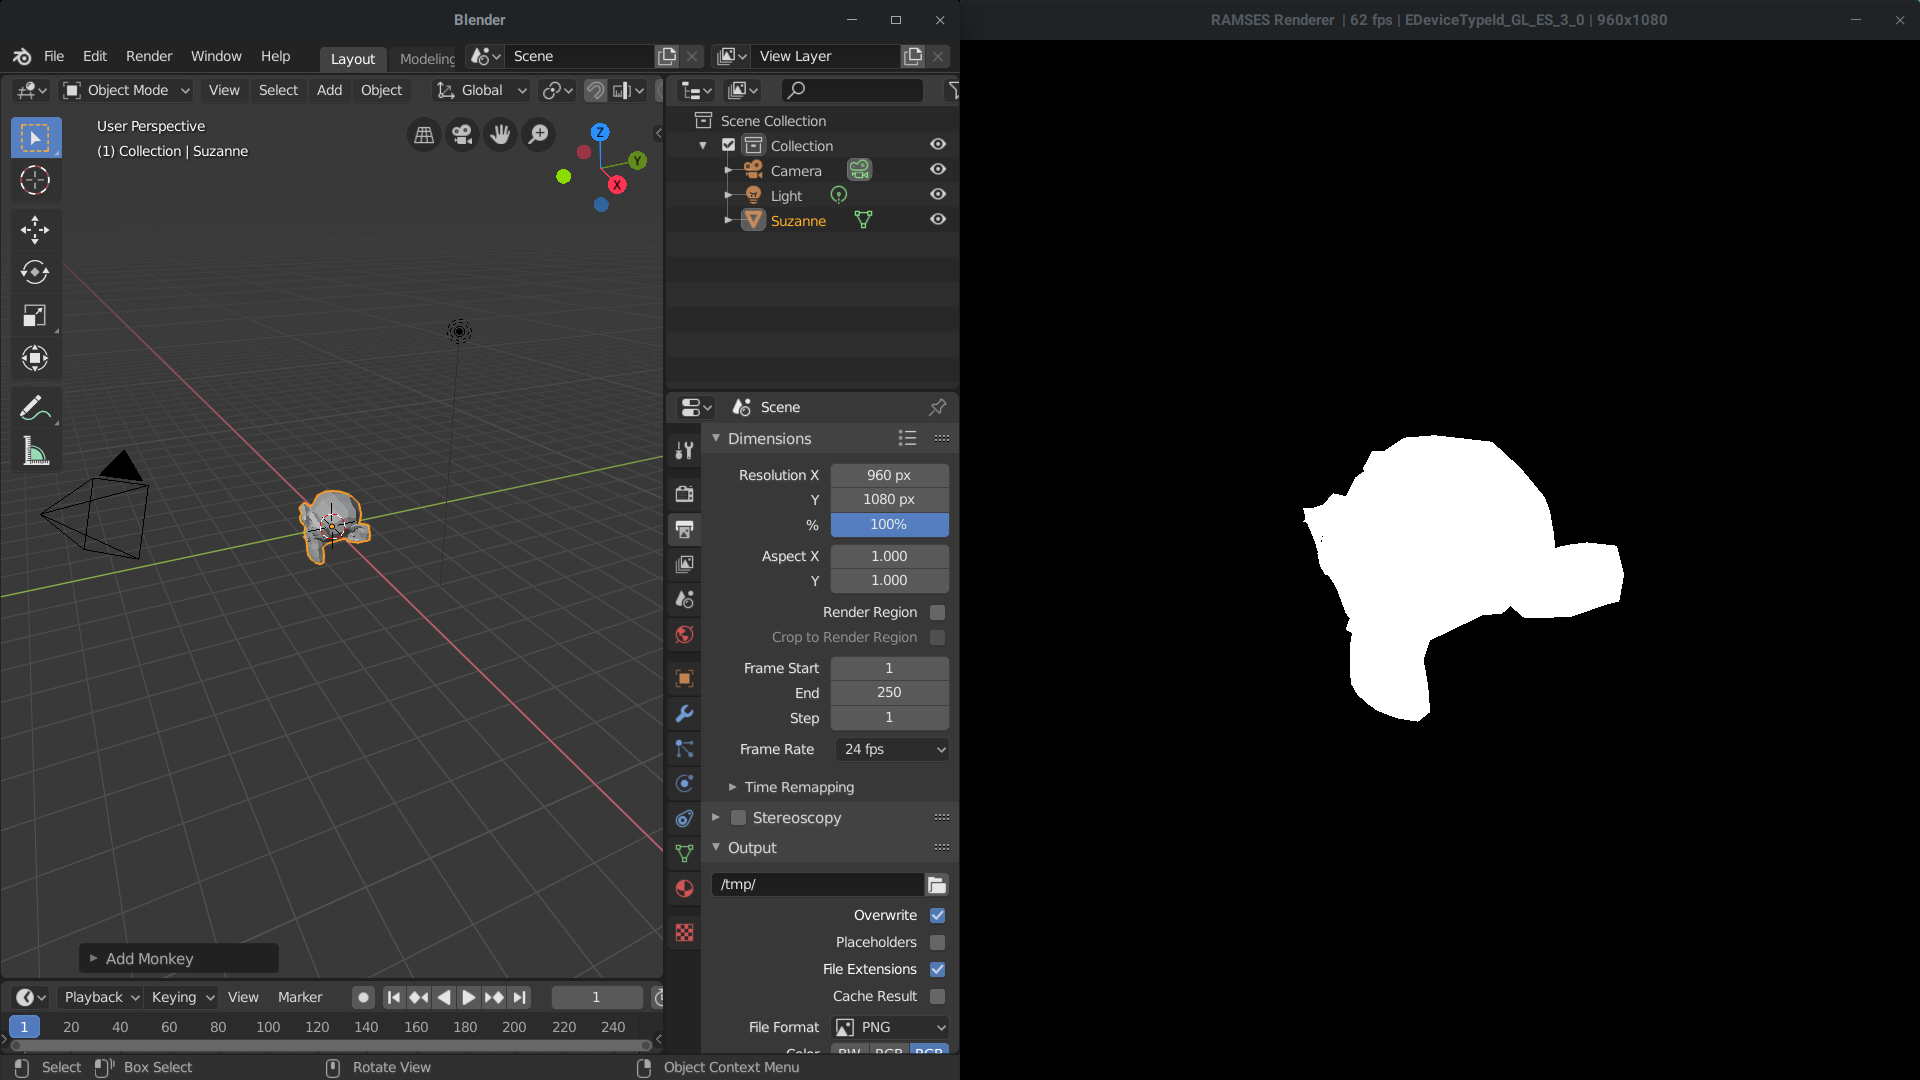
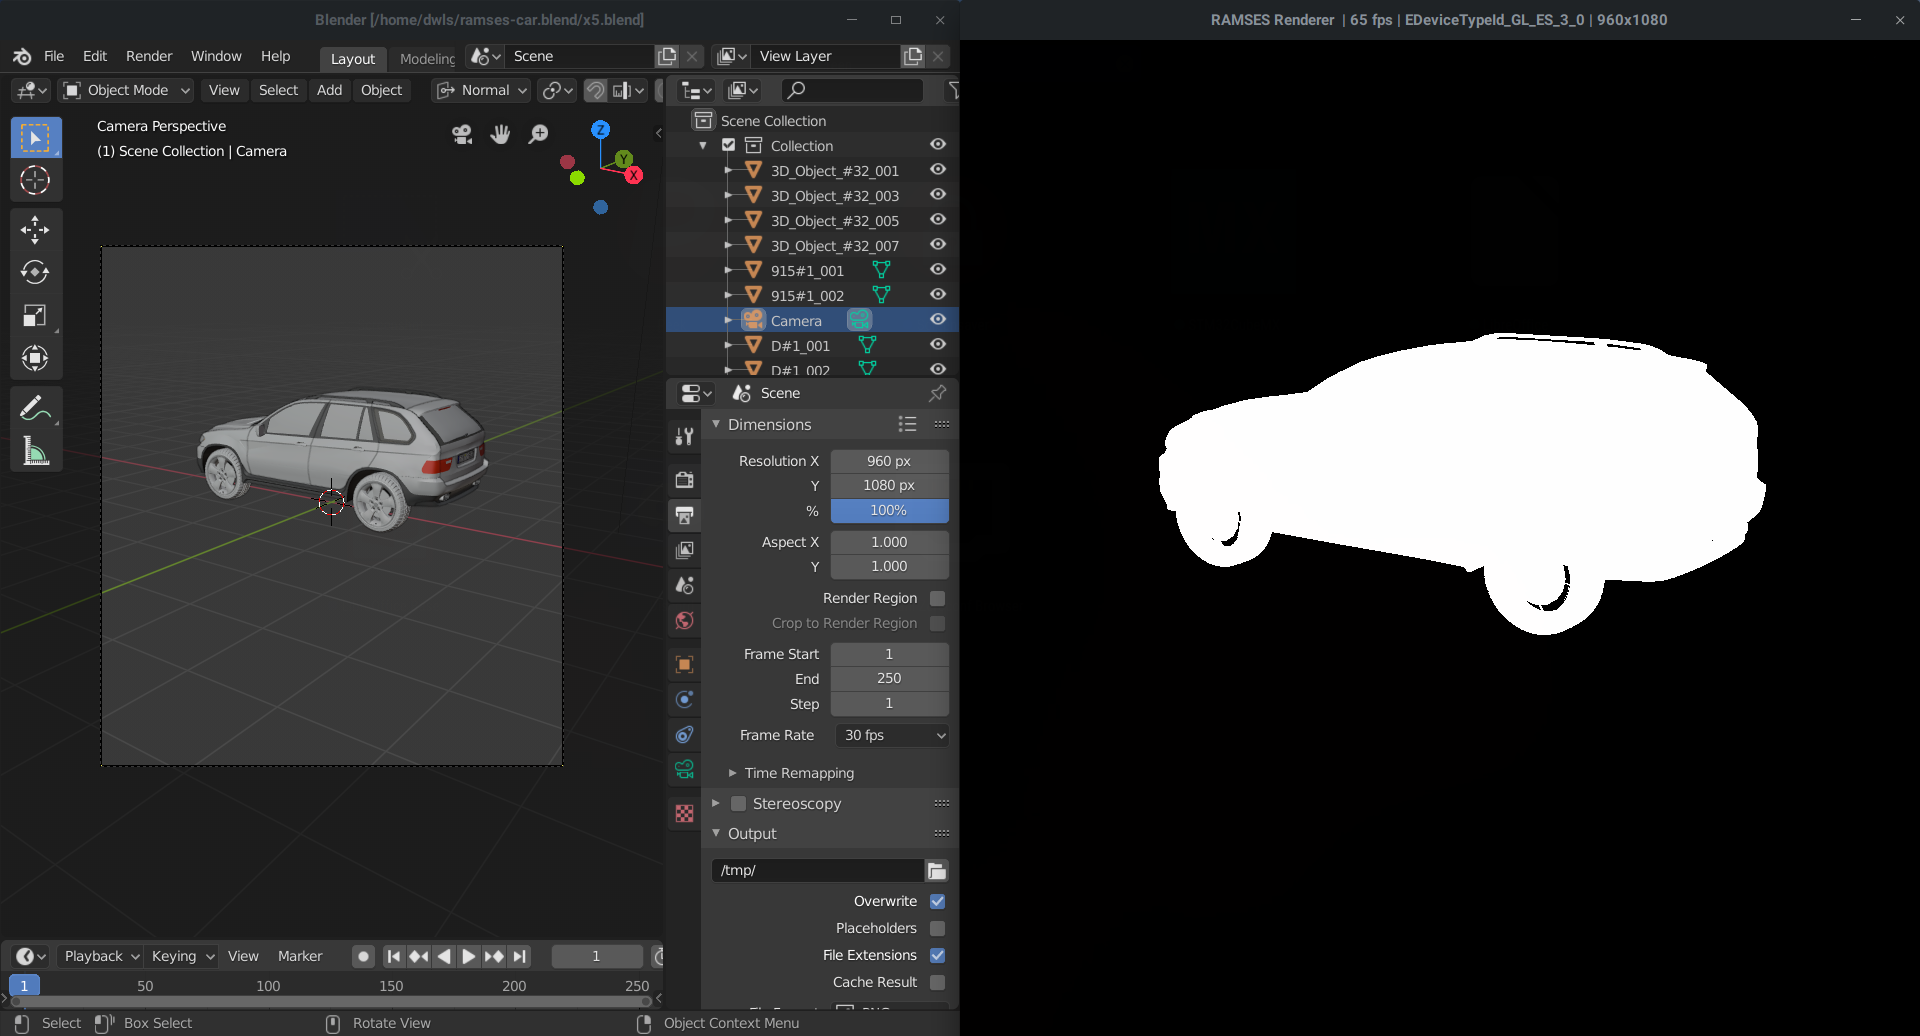
Update README.md

diff --git a/README.md b/README.md
@@ -7,7 +7,7 @@ RAMSES is a 3D graphics framework concerned with the efficient distribution of g
 
 This exporter makes leveraging Blender - a powerful open source 3D modeller - possible for the creation of content to be used in applications developed with the RAMSES framework.
 
-![Here is how it looks currently](DemoScreenshot.png?raw=true "Here is how it looks like currently")
+![Here is how it looks currently](DemoScreenshot.png?raw=true "Here is how it looks like currently")*Rendering of a car in RAMSES from a third-party Blender model. Model is hosted on [Sketchfab](https://sketchfab.com/3d-models/bmw-x5-4-5c20a2cf4b3f41d1b975ebbf734b613e) and licensed under *CC BY 4.0**
 
 How does it work?
 ====================
